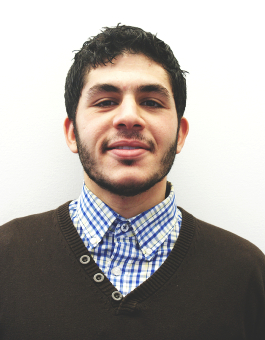
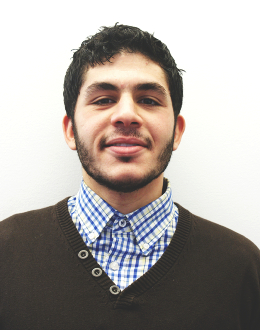
pp

diff --git a/assets/css/style.scss b/assets/css/style.scss
@@ -78,13 +78,14 @@ h2 {
 
 .header{
     width: 940px;
+    height: 350px;
     display: block;
-    margin:15px 0 0 0;
+    margin:15px 0 5px 0;
 }
 
 .profile-pic{
-    width: 265px;
-    height: 340px;
+    width: 260px;
+    height: 330px;
     float: left;
     display: inline-block
 }
